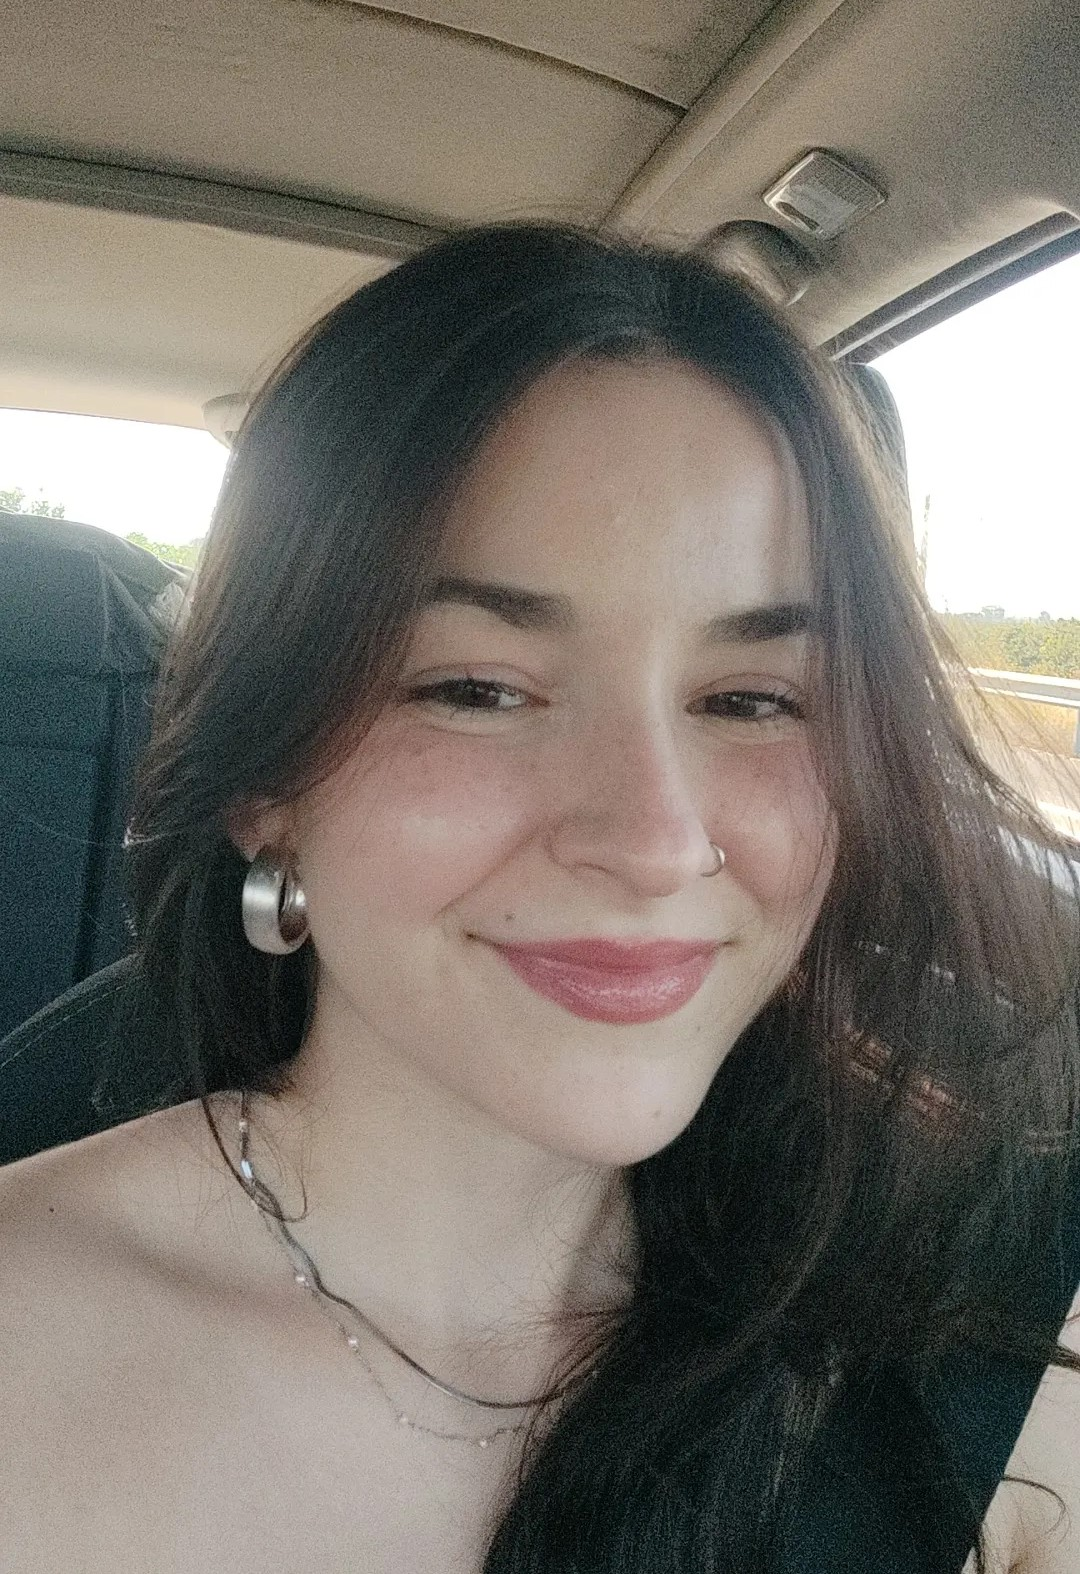
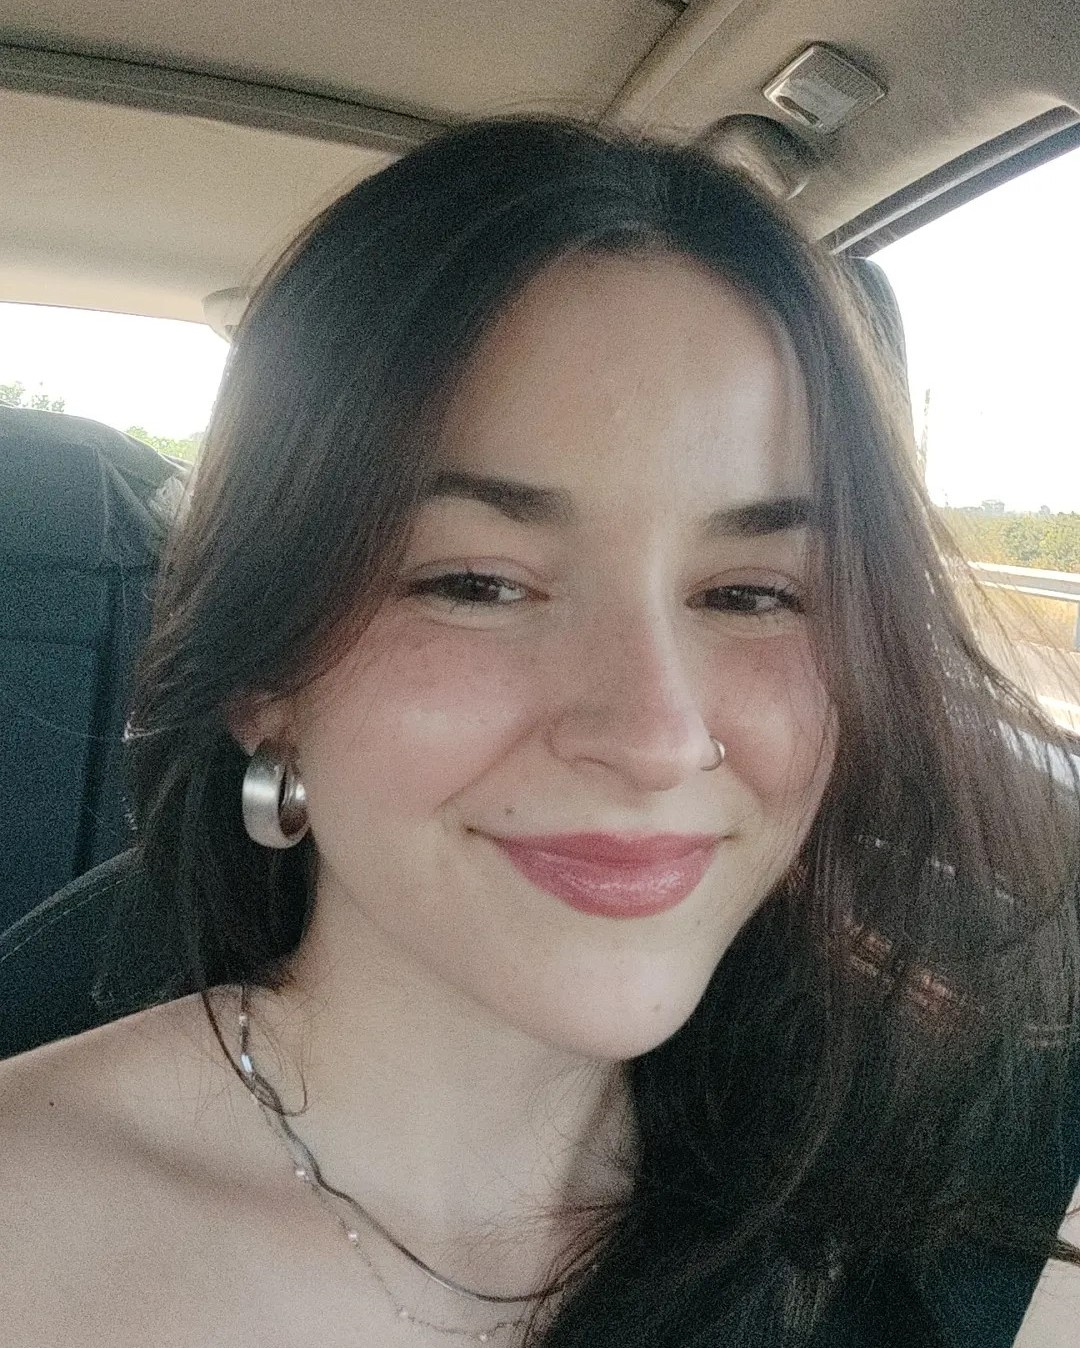
wiki

diff --git a/index.html b/index.html
@@ -321,7 +321,7 @@
             <div class="card">
                 <div class="content">
                       <div class="imgBx">
-                        <img src="img/user.png" />
+                        <img src="img/pau_almendrote.jpg" />
                       </div>
                     <div class="contentBx">
                         <h3>Pau Almendrote Matamoros<br /><span>Music/SFX Designer</span></h3>
